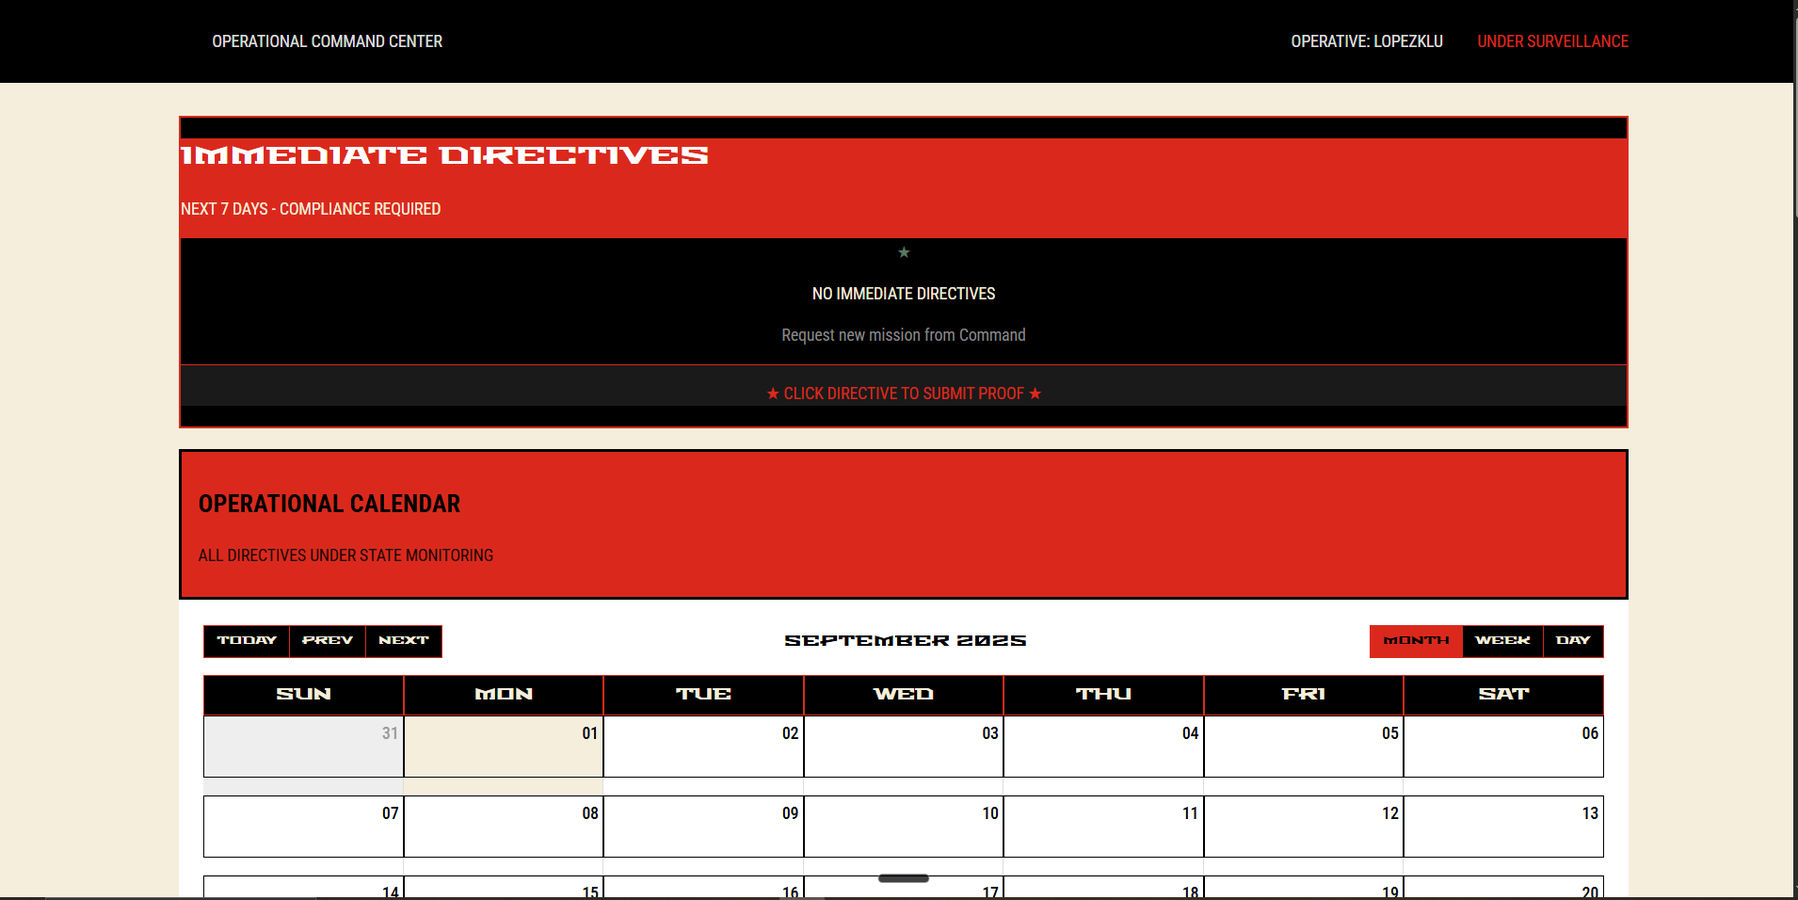
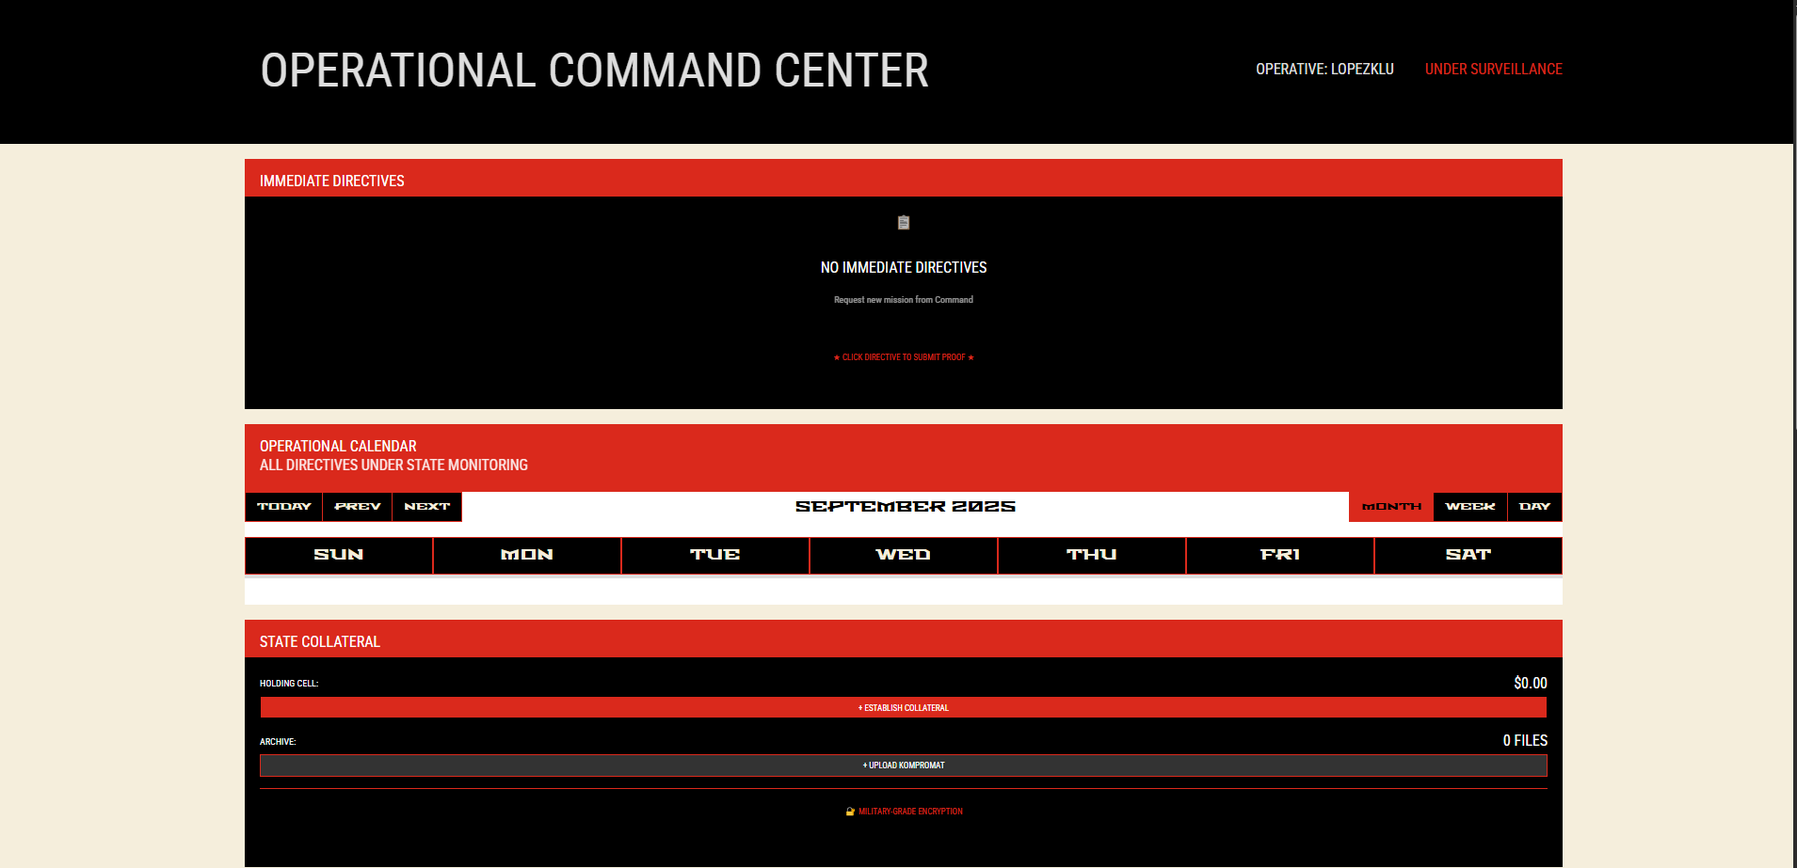
better, more soviet esque

diff --git a/src/components/dashboard/DashboardLayout.tsx b/src/components/dashboard/DashboardLayout.tsx
@@ -63,94 +63,101 @@ const DashboardLayout: React.FC = () => {
   }
 
   return (
-    <div className="min-h-screen bg-[var(--color-background-parchment)] text-body">
-      {/* Header - Official State Banner */}
-      <header className="bg-[var(--color-accent-black)] border-b-[var(--border-width-medium)] border-[var(--color-primary-red)]">
+    <div className="min-h-screen bg-[var(--color-main-crimson)] text-body">
+      {/* Header - Kompromator Banner */}
+      <header className="bg-[var(--color-background-beige)] border-b-[var(--border-width-medium)] border-[var(--color-accent-black)]">
         <div className="container mx-auto px-[var(--space-4)] py-[var(--header-padding)] max-w-[var(--container-max-width)]">
           <div className="flex justify-between items-center">
             <div className="flex items-center gap-[var(--space-4)]">
-              <div className="w-8 h-8 bg-[var(--color-primary-red)] flex items-center justify-center border-[var(--border-width-thin)] border-[var(--color-accent-black)]">
+              <div className="w-8 h-8 bg-[var(--color-primary-crimson)] flex items-center justify-center border-[var(--border-width-thin)] border-[var(--color-accent-black)]">
                 <svg className="w-5 h-5 fill-[var(--color-accent-black)]" viewBox="0 0 24 24">
                   <path d="M12 2l3.09 6.26L22 9.27l-5 4.87 1.18 6.88L12 17.77l-6.18 3.25L7 14.14 2 9.27l6.91-1.01L12 2z"/>
                 </svg>
               </div>
-              <h1 className="text-[var(--color-text-light)] font-[var(--font-family-display)] text-[var(--font-size-xl)] uppercase tracking-wider">
-                OPERATIONAL COMMAND CENTER
+              <h1 className="text-[var(--color-text-crimson)] font-[var(--font-family-display)] text-[var(--font-size-3xl)] uppercase tracking-wider">
+                KOMPROMATOR
               </h1>
             </div>
-            <div className="flex items-center gap-[var(--space-4)] text-[var(--color-text-light)] text-[var(--font-size-sm)] font-[var(--font-family-body)]">
-              <span>OPERATIVE: {user?.email?.split('@')[0].toUpperCase()}</span>
-              <div className="w-[1px] h-4 bg-[var(--color-primary-red)]"></div>
-              <span className="text-[var(--color-primary-red)] font-bold">UNDER SURVEILLANCE</span>
+            <div className="flex flex-col items-end gap-1">
+              <div className="text-[var(--color-text-primary)] text-[var(--font-size-xs)] font-[var(--font-family-body)] uppercase">
+                OPERATIONAL COMMAND CENTER
+              </div>
+              <div className="flex items-center gap-[var(--space-2)] text-[var(--color-text-primary)] text-[var(--font-size-sm)] font-[var(--font-family-body)]">
+                <span>OPERATIVE: {user?.email?.split('@')[0].toUpperCase()}</span>
+                <div className="w-[1px] h-3 bg-[var(--color-primary-crimson)]"></div>
+                <span className="text-[var(--color-primary-crimson)] font-bold">UNDER SURVEILLANCE</span>
+              </div>
             </div>
           </div>
         </div>
       </header>
 
-      {/* Main Command Center - Proper Grid Layout with shadcn */}
+      {/* Main Dashboard - 2-Column Layout inspired by reference */}
       <div className="container mx-auto px-[var(--space-4)] py-[var(--space-4)] max-w-[var(--container-max-width)]">
         
-        {/* Top Row: 3-Column Layout - Sidebars + Calendar */}
-        <div className="grid grid-cols-12 gap-[var(--space-4)] min-h-[calc(100vh-200px)] mb-[var(--space-4)]">
+        {/* Primary Row: Calendar (75%) + Tasks Sidebar (25%) - FORCE HORIZONTAL */}
+        <div className="flex gap-[var(--space-4)] min-h-[calc(100vh-200px)] mb-[var(--space-4)]">
           
-          {/* Left Sidebar: IMMEDIATE DIRECTIVES (2 cols) */}
-          <div className="col-span-12 md:col-span-2">
-            <Card className="h-full bg-[var(--color-accent-black)]">
-              <CardHeader className="pb-[var(--space-2)]">
-                <CardTitle>IMMEDIATE DIRECTIVES</CardTitle>
+          {/* Left: IMMEDIATE DIRECTIVES Sidebar (25% width) */}
+          <div className="w-1/4 min-w-[250px]">
+            <Card className="h-full bg-[var(--color-background-beige)]">
+              <CardHeader className="bg-[var(--color-background-beige)] text-[var(--color-text-primary)] border-b-[var(--color-accent-black)]">
+                <CardTitle className="text-[var(--color-text-primary)]">IMMEDIATE DIRECTIVES</CardTitle>
+                <CardDescription className="text-[var(--color-text-primary)] opacity-70">NEXT 7 DAYS - COMPLIANCE REQUIRED</CardDescription>
               </CardHeader>
-              <CardContent className="text-[var(--color-text-light)] text-center flex-1 flex flex-col justify-center">
-                <div className="mb-[var(--space-2)] text-2xl opacity-75">📋</div>
+              <CardContent className="text-[var(--color-text-primary)] text-center flex-1 flex flex-col justify-center">
+                <div className="mb-[var(--space-2)] text-2xl opacity-50">📋</div>
                 <p className="text-[var(--font-size-xs)] uppercase mb-[var(--space-1)] font-[var(--font-family-body)]">NO IMMEDIATE DIRECTIVES</p>
                 <p className="text-[10px] opacity-60 font-[var(--font-family-body)]">Request new mission from Command</p>
               </CardContent>
-              <CardFooter className="justify-center text-center">
-                <p className="text-[var(--color-primary-red)] text-[9px] uppercase font-[var(--font-family-body)]">
+              <CardFooter className="justify-center text-center bg-[var(--color-background-beige)] border-t-[var(--color-accent-black)]">
+                <p className="text-[var(--color-primary-crimson)] text-[9px] uppercase font-[var(--font-family-body)]">
                   ★ CLICK DIRECTIVE TO SUBMIT PROOF ★
                 </p>
               </CardFooter>
             </Card>
           </div>
 
-          {/* Center: OPERATIONAL CALENDAR (8 cols) */}
-          <div className="col-span-12 md:col-span-8">
-            <Card className="h-full">
-              <CardHeader>
-                <CardTitle>OPERATIONAL CALENDAR</CardTitle>
-                <CardDescription>ALL DIRECTIVES UNDER STATE MONITORING</CardDescription>
+          {/* Right: OPERATIONAL CALENDAR (75% width) */}
+          <div className="flex-1">
+            <Card className="h-full bg-[var(--color-background-beige)]">
+              <CardHeader className="bg-[var(--color-background-beige)] text-[var(--color-text-primary)] border-b-[var(--color-accent-black)]">
+                <CardTitle className="text-[var(--color-text-primary)]">OPERATIONAL CALENDAR</CardTitle>
+                <CardDescription className="text-[var(--color-text-primary)] opacity-70">ALL DIRECTIVES UNDER STATE MONITORING</CardDescription>
               </CardHeader>
-              <CardContent className="flex-1 p-0">
+              <CardContent className="flex-1 p-[var(--space-2)]">
                 <OperationalCalendar />
-              </CardContent>
-            </Card>
-          </div>
-
-          {/* Right Sidebar: STATE COLLATERAL (2 cols) */}
-          <div className="col-span-12 md:col-span-2">
-            <Card className="h-full bg-[var(--color-accent-black)]">
-              <CardHeader className="pb-[var(--space-2)]">
-                <CardTitle>STATE COLLATERAL</CardTitle>
-              </CardHeader>
-              <CardContent className="text-[var(--color-text-light)] flex-1">
-                <VisibleStakesDisplay />
               </CardContent>
             </Card>
           </div>
           
         </div>
 
-        {/* Bottom Row: Command Actions Panel */}
-        <div className="grid grid-cols-12 gap-[var(--space-4)]">
+        {/* Bottom Row: State Management - FORCE HORIZONTAL */}
+        <div className="flex gap-[var(--space-4)] h-[200px]">
           
-          {/* Command Actions Panel (9 cols) */}
-          <div className="col-span-12 md:col-span-9">
-            <Card className="bg-[var(--color-primary-red)]">
-              <CardHeader className="pb-[var(--space-2)]">
-                <CardTitle>COMMAND ACTIONS</CardTitle>
-                <CardDescription>AUTHORIZED OPERATIONS</CardDescription>
+          {/* State Collateral (33% width) */}
+          <div className="flex-1">
+            <Card className="h-full bg-[var(--color-background-beige)]">
+              <CardHeader className="bg-[var(--color-background-beige)] text-[var(--color-text-primary)] border-b-[var(--color-accent-black)] py-[var(--space-2)]">
+                <CardTitle className="text-[var(--color-text-primary)] text-[var(--font-size-base)]">STATE COLLATERAL</CardTitle>
+                <CardDescription className="text-[var(--color-text-primary)] opacity-70">ASSETS UNDER STATE CONTROL</CardDescription>
               </CardHeader>
-              <CardContent>
-                <div className="grid grid-cols-2 md:grid-cols-6 gap-[var(--space-2)]">
+              <CardContent className="text-[var(--color-text-primary)] py-[var(--space-2)]">
+                <VisibleStakesDisplay />
+              </CardContent>
+            </Card>
+          </div>
+
+          {/* Command Actions (33% width) */}
+          <div className="flex-1">
+            <Card className="h-full bg-[var(--color-background-beige)]">
+              <CardHeader className="bg-[var(--color-background-beige)] text-[var(--color-text-primary)] border-b-[var(--color-accent-black)] py-[var(--space-2)]">
+                <CardTitle className="text-[var(--color-text-primary)] text-[var(--font-size-base)]">COMMAND ACTIONS</CardTitle>
+                <CardDescription className="text-[var(--color-text-primary)] opacity-70">AUTHORIZED OPERATIONS</CardDescription>
+              </CardHeader>
+              <CardContent className="py-[var(--space-2)]">
+                <div className="grid grid-cols-2 gap-[var(--space-2)]">
                   <Button variant="command" size="sm" onClick={handleRequestNewMission}>
                     ⚡ NEW MISSION
                   </Button>
@@ -160,35 +167,30 @@ const DashboardLayout: React.FC = () => {
                   <Button variant="success" size="sm" onClick={handleEstablishCollateral}>
                     💰 COLLATERAL
                   </Button>
-                  <Button variant="ghost" size="sm" onClick={handleUploadKompromat} className="bg-[var(--color-text-secondary)] text-[var(--color-text-light)] border-[var(--color-primary-red)]">
+                  <Button variant="ghost" size="sm" onClick={handleUploadKompromat}>
                     📁 KOMPROMAT
                   </Button>
-                  <Button variant="ghost" size="sm" onClick={handleRecruitContacts} className="bg-[var(--color-text-secondary)] text-[var(--color-text-light)] border-[var(--color-primary-red)]">
+                  <Button variant="ghost" size="sm" onClick={handleRecruitContacts}>
                     👥 CONTACTS
                   </Button>
-                  <Button variant="ghost" size="sm" onClick={handleEmergencyExit} className="bg-transparent text-[var(--color-text-light)] border-[var(--color-text-light)]">
+                  <Button variant="ghost" size="sm" onClick={handleEmergencyExit}>
                     ⚠ EXIT
                   </Button>
                 </div>
               </CardContent>
-              <CardFooter className="justify-center">
-                <p className="text-[var(--color-text-light)] text-[9px] uppercase font-[var(--font-family-body)]">
-                  ★ ALL ACTIONS MONITORED BY STATE ★
-                </p>
-              </CardFooter>
             </Card>
           </div>
 
-          {/* Classified Intel (3 cols) */}
-          <div className="col-span-12 md:col-span-3">
-            <Card className="bg-[var(--color-accent-black)]">
-              <CardHeader className="pb-[var(--space-2)]">
-                <CardTitle>CLASSIFIED INTEL</CardTitle>
+          {/* Classified Intel (33% width) */}
+          <div className="flex-1">
+            <Card className="h-full bg-[var(--color-background-beige)]">
+              <CardHeader className="bg-[var(--color-background-beige)] text-[var(--color-text-primary)] border-b-[var(--color-accent-black)] py-[var(--space-2)]">
+                <CardTitle className="text-[var(--color-text-primary)] text-[var(--font-size-base)]">CLASSIFIED INTEL</CardTitle>
               </CardHeader>
-              <CardContent className="text-[var(--color-text-light)] space-y-[var(--space-1)]">
+              <CardContent className="text-[var(--color-text-primary)] space-y-[var(--space-2)] py-[var(--space-2)]">
                 <div className="flex justify-between items-center text-[var(--font-size-xs)] font-[var(--font-family-body)]">
                   <span>ACTIVE MISSIONS:</span>
-                  <span className="text-[var(--color-primary-red)] font-bold">0</span>
+                  <span className="text-[var(--color-primary-crimson)] font-bold">0</span>
                 </div>
                 <div className="flex justify-between items-center text-[var(--font-size-xs)] font-[var(--font-family-body)]">
                   <span>COMPLIANCE RATE:</span>
@@ -196,7 +198,7 @@ const DashboardLayout: React.FC = () => {
                 </div>
                 <div className="flex justify-between items-center text-[var(--font-size-xs)] font-[var(--font-family-body)]">
                   <span>SECURITY LEVEL:</span>
-                  <span className="text-[var(--color-primary-red)] font-bold">MAXIMUM</span>
+                  <span className="text-[var(--color-primary-crimson)] font-bold">MAXIMUM</span>
                 </div>
               </CardContent>
             </Card>
@@ -207,15 +209,15 @@ const DashboardLayout: React.FC = () => {
       </div>
 
       {/* Bottom Status Bar */}
-      <footer className="bg-[var(--color-accent-black)] border-t-[var(--border-width-medium)] border-[var(--color-primary-red)]">
+      <footer className="bg-[var(--color-background-beige)] border-t-[var(--border-width-medium)] border-[var(--color-accent-black)]">
         <div className="container mx-auto px-[var(--space-4)] py-[var(--space-3)] max-w-[var(--container-max-width)]">
-          <div className="flex justify-between items-center text-[var(--color-text-light)] text-[var(--font-size-xs)] font-[var(--font-family-body)]">
+          <div className="flex justify-between items-center text-[var(--color-text-primary)] text-[var(--font-size-xs)] font-[var(--font-family-body)]">
             <div className="flex items-center gap-[var(--space-6)]">
               <span>STATE NETWORK: <strong>ACTIVE</strong></span>
               <span>SURVEILLANCE: <strong>ENABLED</strong></span>
               <span>CONSEQUENCES: <strong>ARMED</strong></span>
             </div>
-            <div className="text-[var(--color-primary-red)] font-bold font-[var(--font-family-display)] uppercase">
+            <div className="text-[var(--color-primary-crimson)] font-bold font-[var(--font-family-display)] uppercase">
               <svg className="inline w-4 h-4 fill-current mr-1" viewBox="0 0 24 24">
                 <path d="M12 2l3.09 6.26L22 9.27l-5 4.87 1.18 6.88L12 17.77l-6.18 3.25L7 14.14 2 9.27l6.91-1.01L12 2z"/>
               </svg>

diff --git a/src/components/ui/button.tsx b/src/components/ui/button.tsx
@@ -5,21 +5,21 @@ import { cva, type VariantProps } from "class-variance-authority"
 import { cn } from "../../lib/utils"
 
 const buttonVariants = cva(
-  // Soviet base button styling - sharp edges, strong typography
+  // Kompromator base button styling - sharp edges, strong typography
   "inline-flex items-center justify-center gap-2 whitespace-nowrap text-sm font-[var(--font-family-display)] uppercase tracking-wide ring-offset-background transition-colors duration-[var(--transition-fast)] focus-visible:outline-none focus-visible:ring-2 focus-visible:ring-offset-2 disabled:pointer-events-none disabled:opacity-50 [&_svg]:pointer-events-none [&_svg]:size-4 [&_svg]:shrink-0 border-[var(--border-width-medium)] border-solid",
   {
     variants: {
       variant: {
-        // Soviet Command button - black with white text
-        command: "bg-[var(--color-accent-black)] text-[var(--color-text-light)] border-[var(--color-container-light)] hover:bg-[var(--color-container-light)] hover:text-[var(--color-accent-black)] hover:border-[var(--color-accent-black)]",
-        // Soviet Action button - white with black text
-        action: "bg-[var(--color-container-light)] text-[var(--color-text-primary)] border-[var(--color-accent-black)] hover:bg-[var(--color-success-muted)] hover:text-[var(--color-text-light)] hover:border-[var(--color-success-muted)]",
-        // Soviet Danger button - red
-        danger: "bg-[var(--color-primary-red)] text-[var(--color-text-light)] border-[var(--color-accent-black)] hover:bg-[var(--color-accent-black)] hover:text-[var(--color-primary-red)] hover:border-[var(--color-primary-red)]",
-        // Soviet Ghost button - transparent
-        ghost: "bg-transparent text-[var(--color-text-primary)] border-[var(--color-accent-black)] hover:bg-[var(--color-accent-black)] hover:text-[var(--color-text-light)]",
-        // Soviet Success button - green
-        success: "bg-[var(--color-success-muted)] text-[var(--color-text-light)] border-[var(--color-accent-black)] hover:bg-[var(--color-accent-black)] hover:text-[var(--color-success-muted)] hover:border-[var(--color-success-muted)]",
+        // Kompromator Command button - black with beige text
+        command: "bg-[var(--color-accent-black)] text-[var(--color-background-beige)] border-[var(--color-background-beige)] hover:bg-[var(--color-background-beige)] hover:text-[var(--color-accent-black)] hover:border-[var(--color-accent-black)]",
+        // Kompromator Action button - beige with black text
+        action: "bg-[var(--color-background-beige)] text-[var(--color-text-primary)] border-[var(--color-accent-black)] hover:bg-[var(--color-success-muted)] hover:text-[var(--color-background-beige)] hover:border-[var(--color-success-muted)]",
+        // Kompromator Danger button - crimson
+        danger: "bg-[var(--color-primary-crimson)] text-[var(--color-background-beige)] border-[var(--color-accent-black)] hover:bg-[var(--color-accent-black)] hover:text-[var(--color-primary-crimson)] hover:border-[var(--color-primary-crimson)]",
+        // Kompromator Ghost button - transparent
+        ghost: "bg-transparent text-[var(--color-text-primary)] border-[var(--color-accent-black)] hover:bg-[var(--color-accent-black)] hover:text-[var(--color-background-beige)]",
+        // Kompromator Success button - green
+        success: "bg-[var(--color-success-muted)] text-[var(--color-background-beige)] border-[var(--color-accent-black)] hover:bg-[var(--color-accent-black)] hover:text-[var(--color-success-muted)] hover:border-[var(--color-success-muted)]",
       },
       size: {
         default: "h-10 px-[var(--space-4)] py-[var(--space-2)]",

diff --git a/src/components/ui/card.tsx b/src/components/ui/card.tsx
@@ -9,8 +9,8 @@ const Card = React.forwardRef<
   <div
     ref={ref}
     className={cn(
-      // Soviet Constructivist styling - sharp edges, high contrast
-      "border-[var(--border-width-medium)] border-[var(--color-border-primary)] bg-[var(--color-container-light)] text-[var(--color-text-primary)] shadow-none",
+      // Kompromator Constructivist styling - sharp edges, beige background
+      "border-[var(--border-width-medium)] border-[var(--color-border-primary)] bg-[var(--color-background-beige)] text-[var(--color-text-primary)] shadow-none",
       className
     )}
     {...props}
@@ -25,8 +25,8 @@ const CardHeader = React.forwardRef<
   <div
     ref={ref}
     className={cn(
-      // Soviet banner header styling
-      "flex flex-col space-y-1 p-[var(--space-4)] bg-[var(--color-primary-red)] text-[var(--color-text-light)] border-b-[var(--border-width-medium)] border-[var(--color-border-primary)]",
+      // Kompromator header styling - beige background, black text
+      "flex flex-col space-y-1 p-[var(--space-4)] bg-[var(--color-background-beige)] text-[var(--color-text-primary)] border-b-[var(--border-width-medium)] border-[var(--color-border-primary)]",
       className
     )}
     {...props}
@@ -41,8 +41,8 @@ const CardTitle = React.forwardRef<
   <div
     ref={ref}
     className={cn(
-      // Soviet display typography
-      "text-[var(--font-size-lg)] font-[var(--font-family-display)] uppercase tracking-wider leading-none text-[var(--color-text-light)]",
+      // Kompromator display typography - black text for headers
+      "text-[var(--font-size-lg)] font-[var(--font-family-display)] uppercase tracking-wider leading-none text-[var(--color-text-primary)]",
       className
     )}
     {...props}
@@ -57,8 +57,8 @@ const CardDescription = React.forwardRef<
   <div
     ref={ref}
     className={cn(
-      // Soviet body text styling
-      "text-[var(--font-size-xs)] font-[var(--font-family-body)] text-[var(--color-text-light)] opacity-90 normal-case",
+      // Kompromator body text styling - black text for descriptions
+      "text-[var(--font-size-xs)] font-[var(--font-family-body)] text-[var(--color-text-primary)] opacity-70 normal-case",
       className
     )}
     {...props}
@@ -85,8 +85,8 @@ const CardFooter = React.forwardRef<
   <div
     ref={ref}
     className={cn(
-      // Soviet footer with dark background
-      "flex items-center p-[var(--space-3)] bg-[var(--color-accent-black)] text-[var(--color-text-light)] border-t-[var(--border-width-medium)] border-[var(--color-primary-red)]",
+      // Kompromator footer with beige background
+      "flex items-center p-[var(--space-3)] bg-[var(--color-background-beige)] text-[var(--color-text-primary)] border-t-[var(--border-width-medium)] border-[var(--color-border-primary)]",
       className
     )}
     {...props}

diff --git a/src/styles/tokens.css b/src/styles/tokens.css
@@ -1,25 +1,26 @@
 /**
- * SOVIET CONSTRUCTIVIST DESIGN TOKENS
- * Design System for the Threativator State Discipline Network
+ * KOMPROMATOR DESIGN TOKENS
+ * Design System for the Kompromator State Discipline Network
  * Following principles of geometric precision and authoritative aesthetics
  */
 
 :root {
   /* ===== COLOR PALETTE ===== */
-  /* Primary Soviet Colors */
-  --color-primary-red: #DA291C;
+  /* Kompromator Colors */
+  --color-primary-crimson: #C11B17;     /* Main crimson red */
   --color-accent-black: #000000;
-  --color-background-parchment: #F5EEDC;
-  --color-container-light: #FFFFFF;
+  --color-background-beige: #F5EEDC;    /* Headers, footers, and card backgrounds */
+  --color-main-crimson: #C11B17;        /* Main content background */
   --color-success-muted: #5A7761;
   
   /* Extended Palette for UI States */
-  --color-text-primary: var(--color-accent-black);
+  --color-text-primary: var(--color-accent-black);     /* Black text */
   --color-text-secondary: #333333;
-  --color-text-light: var(--color-container-light);
+  --color-text-crimson: var(--color-primary-crimson);  /* Crimson text for headers */
+  --color-text-beige: var(--color-background-beige);   /* Beige text */
   --color-text-muted: #666666;
   --color-border-primary: var(--color-accent-black);
-  --color-border-secondary: var(--color-primary-red);
+  --color-border-secondary: var(--color-primary-crimson);
 
   /* ===== TYPOGRAPHY ===== */
   /* Font Families - Import from Google Fonts */
@@ -126,8 +127,8 @@
   font-family: var(--font-family-body);
 }
 
-/* Soviet Container */
-.soviet-container {
+/* Container */
+.kompromator-container {
   max-width: var(--container-max-width);
   margin: 0 auto;
   padding-left: var(--container-padding-mobile);
@@ -135,29 +136,16 @@
 }
 
 @media (min-width: 768px) {
-  .soviet-container {
+  .kompromator-container {
     padding-left: var(--container-padding-tablet);
     padding-right: var(--container-padding-tablet);
   }
 }
 
 @media (min-width: 1024px) {
-  .soviet-container {
+  .kompromator-container {
     padding-left: var(--container-padding-desktop);
     padding-right: var(--container-padding-desktop);
-  }
-}
-
-/* Soviet Grid */
-.soviet-grid {
-  display: grid;
-  grid-template-columns: repeat(var(--grid-columns), 1fr);
-  gap: var(--grid-gap-mobile);
-}
-
-@media (min-width: 768px) {
-  .soviet-grid {
-    gap: var(--grid-gap);
   }
 }
 
